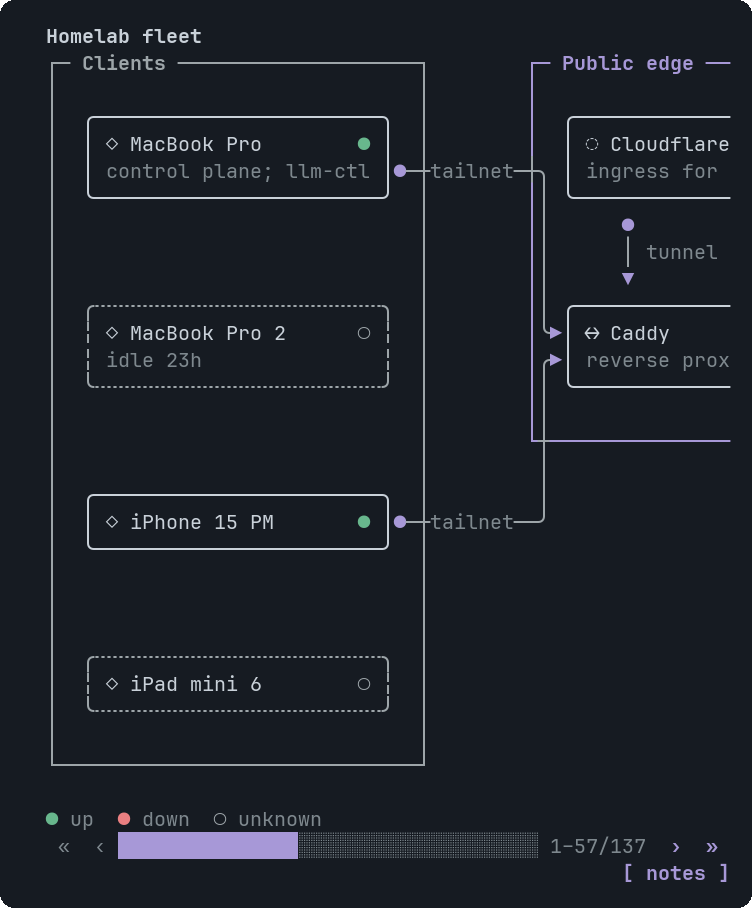
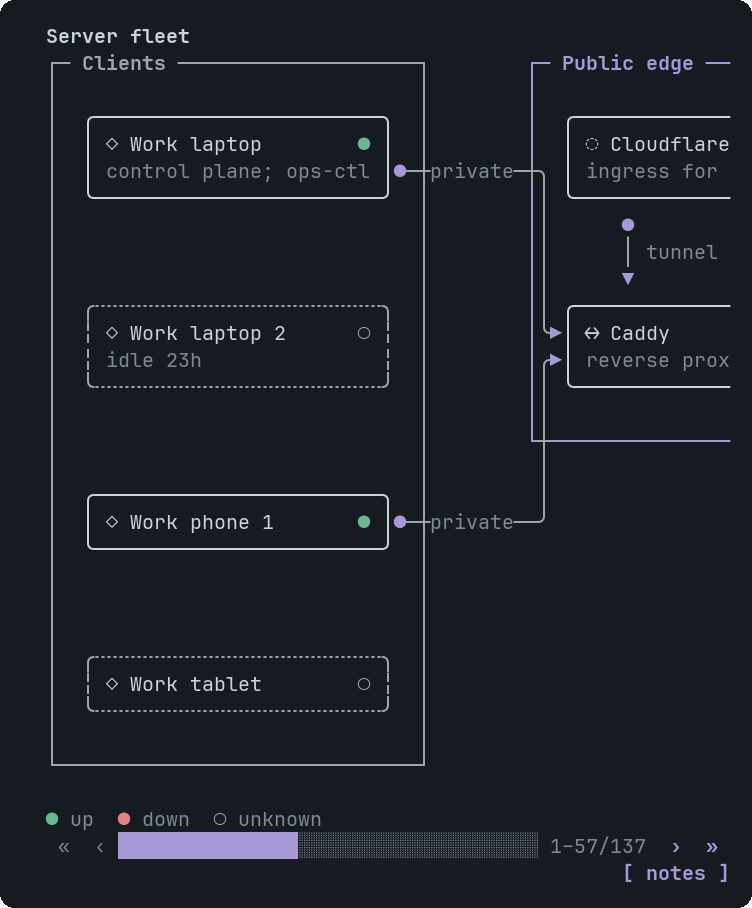
Better screenshots, synthetic example data
Redraw the screenshots and rewrite the examples, tests and compat corpus
with invented data. AGENTS.md says to always use synthetic data.

diff --git a/test/table-narrow.test.ts b/test/table-narrow.test.ts
@@ -9,12 +9,12 @@ import { newState, type Block, type Target } from "../src/blocks/types.ts";
 import { rowsToLines, textWidth } from "../src/diagram/canvas.ts";
 import { compile } from "../src/lang/library.ts";
 
-const FLEET_COLS = ["Host", "OS", "Role", "Tailnet IP", "State"];
+const FLEET_COLS = ["Host", "OS", "Role", "Address", "State"];
 const FLEET_ROWS = [
-	["dgx-spark", "Ubuntu 24.04", "Gateway host, LiteLLM", "100.76.148.76", "up"],
-	["dgx-spark2", "Ubuntu 24.04", "Cluster TP=2 node A", "100.87.121.4", "up"],
-	["divi-pc-ubuntu", "Ubuntu 24.04", "RTX 5090 workstation", "100.68.119.2", "down 8d"],
-	["davids-macbook", "macOS", "Control plane; llm-ctl", "100.123.55.118", "up"],
+	["gpu-box-a", "Ubuntu 24.04", "Gateway host, HAProxy", "198.51.100.76", "up"],
+	["gpu-box-a2", "Ubuntu 24.04", "Worker pool, node A", "198.51.100.4", "up"],
+	["work-pc-ubuntu", "Ubuntu 24.04", "Build runner, CI #12", "198.51.100.2", "down 8d"],
+	["laptop-primary", "macOS", "Control plane; ops-ctl", "198.51.100.118", "up"],
 ];
 const q = (v: string) => JSON.stringify(v);
 /** `Host` pinned: the 4th argument, with no tooltips before it */
@@ -88,10 +88,10 @@ test("the fleet table at 63 columns with a minimum of 12 scrolls: no column is n
 	cols.forEach((c, i) => assert.ok(c.w >= Math.min(natural[i], 12), `column ${i} is ${c.w} wide`));
 	assert.ok(tableBlock(FLEET_COLS, FLEET_ROWS, 63, { minCol: 12 }).block.w > 63);
 	assert.ok(s.block.rows.every((r) => r.length === s.block.w) && s.block.w === 63);
-	assert.ok(!s.text.includes("100.76.148.76"), "at the left edge the address is out of view");
+	assert.ok(!s.text.includes("198.51.100.76"), "at the left edge the address is out of view");
 	// scroll to the IP column: the address is whole
 	s.panTo(tableBlock(FLEET_COLS, FLEET_ROWS, 63, { minCol: 12 }).edges[3]); // the IP column's border: nothing is pinned, the whole table scrolls
-	assert.ok(s.text.includes("100.76.148.76") && s.text.includes("100.123.55.118"), s.text);
+	assert.ok(s.text.includes("198.51.100.76") && s.text.includes("198.51.100.118"), s.text);
 });
 
 test("with a minimum of 10 the same table at 63 columns fits and shows no bar", () => {
@@ -142,13 +142,13 @@ test("a tap on the page arrow lands on a column edge, and on the fine arrow it d
 });
 
 test("tooltip targets follow the columns when the table scrolls", () => {
-	const src = fleetSource(`, [tip]`) + `\ntip = Tooltip("cell:2.Tailnet IP", "the address", "Reachable over the tailnet only.")`;
+	const src = fleetSource(`, [tip]`) + `\ntip = Tooltip("cell:2.Address", "the address", "Reachable over the VPN only.")`;
 	const s = new Scene(src, 63, 12);
 	s.panTo(tableBlock(FLEET_COLS, FLEET_ROWS, 63, { minCol: 12 }).edges[3]);
-	const cell = s.find((t) => t.label === "cell:2.Tailnet IP");
+	const cell = s.find((t) => t.label === "cell:2.Address");
 	assert.ok(cell.rect.x >= 0 && cell.rect.x + cell.rect.w <= 63, `${JSON.stringify(cell.rect)}`);
 	s.click(cell);
-	assert.ok(s.text.includes("Reachable over the tailnet only."), s.text);
+	assert.ok(s.text.includes("Reachable over the VPN only."), s.text);
 });
 
 test("wide characters at the crop edge never leave half a cell", () => {
@@ -193,7 +193,7 @@ test("pinned column: the pinned column stays, the rest is what was at that offse
 	}
 	s.panTo(20);
 	assert.ok(s.text.split("\n")[1].startsWith("│ Host           │"), s.text);
-	assert.ok(s.text.split("\n")[6].startsWith("│ davids-macbook │"), s.text);
+	assert.ok(s.text.split("\n")[6].startsWith("│ laptop-primary │"), s.text);
 });
 
 test("pinned column: at the start the picture is the plain crop", () => {
@@ -215,7 +215,7 @@ test("pinned column: a pin wider than half the view is skipped, and the whole ta
 });
 
 test("pinned column: targets and badges follow the columns and never sit on the pinned one", () => {
-	const src = fleetSource(`, [t1, t2, t3], ["Host"]`) + `\nt1 = Tooltip("cell:1.Host", "first column")\nt2 = Tooltip("cell:1.Role", "partly hidden")\nt3 = Tooltip("cell:1.Tailnet IP", "an address")`;
+	const src = fleetSource(`, [t1, t2, t3], ["Host"]`) + `\nt1 = Tooltip("cell:1.Host", "first column")\nt2 = Tooltip("cell:1.Role", "partly hidden")\nt3 = Tooltip("cell:1.Address", "an address")`;
 	const s = new Scene(src, 63, 12);
 	const F = 18;
 	s.panTo(20);
@@ -226,15 +226,15 @@ test("pinned column: targets and badges follow the columns and never sit on the 
 	assert.ok(role.rect.x + role.rect.w > F);
 	assert.equal(targetAt(s.block, 20, 3)?.label, "cell:1.Role", "under the pointer: the visible part of Role");
 	assert.notEqual(targetAt(s.block, 10, 3)?.label, "cell:1.Role");
-	const ip = s.find((t) => t.label === "cell:1.Tailnet IP");
+	const ip = s.find((t) => t.label === "cell:1.Address");
 	const ipX = tableBlock(FLEET_COLS, FLEET_ROWS, 63, { minCol: 12 }).anchors.cols[3].x;
 	assert.equal(ip.rect.x, ipX - 20, "a column right of the edge moves by exactly the pan");
 	// the frozen column's text is intact: no badge was drawn over it
-	assert.ok(rowsOf(s.block)[3].startsWith("│ dgx-spark"), rowsOf(s.block)[3]);
+	assert.ok(rowsOf(s.block)[3].startsWith("│ gpu-box-a"), rowsOf(s.block)[3]);
 	s.panTo(0);
 	s.draw();
 	const hostText = rowsOf(s.block)[3].slice(0, F);
-	assert.ok(hostText.includes("dgx-spark"));
+	assert.ok(hostText.includes("gpu-box-a"));
 });
 
 test("pinned column: a notes item for a hidden cell is not offered, one for a visible cell moves with its column", () => {
@@ -249,7 +249,7 @@ test("pinned column: a notes item for a hidden cell is not offered, one for a vi
 	const state = at20.map((t) => t.label);
 	assert.ok(!state.some((l) => l.endsWith("OS")), `OS is entirely behind the frozen column: ${state}`);
 	assert.ok(at0.some((l) => l.endsWith("OS")), `and was there at the start: ${at0}`);
-	const ip = at20.find((t) => t.label.endsWith("Tailnet IP"))!;
+	const ip = at20.find((t) => t.label.endsWith("Address"))!;
 	assert.equal(ip.rect.x, tableBlock(FLEET_COLS, FLEET_ROWS, 63, { minCol: 12 }).anchors.cols[3].x - 20);
 });
 

diff --git a/src/lang/samples.ts b/src/lang/samples.ts
@@ -62,7 +62,7 @@ note = Callout("spark-3 was rebooted on 21 Oct.", "info")`,
 		title: "Button, Choice, Faq",
 		source: `root = Stack([b, ch, fq])
 b = Stack([b1, b2], "row")
-b1 = Button("Restart vllm", @ToAssistant("Restart the vllm service on dgx-spark-1"))
+b1 = Button("Restart vllm", @ToAssistant("Restart the vllm service on gpu-box-1"))
 b2 = Button("Drain node")
 ch = Choice("Which model should serve chat?", ["qwen3-32b", "llama-3.3-70b", "gemma-3-27b"], "I will use it for the next request")
 fq = Faq([q1, q2, q3], true)
@@ -239,8 +239,8 @@ t = Tooltip("image", "Test picture, drawn by the extension", "Pictures use the t
 		key: "wide-table",
 		title: "A wide table: it scrolls, and Host is pinned so a row stays readable",
 		source: `root = Stack([title, t])
-title = Text("Homelab fleet: five columns, Host stays put while the rest scrolls", "heading")
-t = Table(["Host", "OS", "Role", "Tailnet IP", "State"], [["dgx-spark", "Ubuntu 24.04", "Gateway host, LiteLLM", "100.76.148.76", "up"], ["dgx-spark2", "Ubuntu 24.04", "Cluster TP=2 node A", "100.87.121.4", "up"], ["divi-pc-ubuntu", "Ubuntu 24.04", "RTX 5090 workstation", "100.68.119.2", "down 8d"], ["bosgame-m5-ubuntu", "Ubuntu 26.04", "Strix Halo, dual-boot", "100.125.2.9", "down 7d"], ["davids-macbook", "macOS", "Control plane; llm-ctl", "100.123.55.118", "up"]], null, ["Host"])`,
+title = Text("Server fleet: five columns, Host stays put while the rest scrolls", "heading")
+t = Table(["Host", "OS", "Role", "Address", "State"], [["gpu-box-a", "Ubuntu 24.04", "Gateway host, HAProxy", "198.51.100.76", "up"], ["gpu-box-a2", "Ubuntu 24.04", "Worker pool, node A", "198.51.100.4", "up"], ["work-pc-ubuntu", "Ubuntu 24.04", "Build runner, CI #12", "198.51.100.2", "down 8d"], ["minipc-m55-ubuntu", "Ubuntu 22.04", "Test bench, dual-boot", "203.0.113.9", "down 7d"], ["laptop-primary", "macOS", "Control plane; ops-ctl", "198.51.100.118", "up"]], null, ["Host"])`,
 	},
 	{
 		key: "wide-table-cut",
@@ -292,27 +292,27 @@ b4 = Button("Escalate to on-call", @ToAssistant("Escalate to the on-call enginee
 		key: "wide-infra-map",
 		title: "A wide InfraMap: whole labels, scroll sideways",
 		source: `root = Stack([map])
-map = InfraMap([clients, edge, spark, strix], [l1, l2, l3, l4, l5], "Homelab fleet", "LR")
-clients = InfraZone("Clients", [mbp, mbp2, iphone, ipad])
+map = InfraMap([clients, edge, gpu, bench], [l1, l2, l3, l4, l5], "Server fleet", "LR")
+clients = InfraZone("Clients", [lap1, lap2, ph1, tab1])
 edge = InfraZone("Public edge", [cf, caddy], "info")
-spark = InfraZone("DGX Spark fleet", [s1, s2, s3], "good")
-strix = InfraZone("Strix Halo", [bos, evo])
-mbp = InfraNode("mbp", "MacBook Pro", "service", "up", "control plane; llm-ctl")
-mbp2 = InfraNode("mbp2", "MacBook Pro 2", "service", "unknown", "idle 23h")
-iphone = InfraNode("iphone", "iPhone 15 PM", "service", "up")
-ipad = InfraNode("ipad", "iPad mini 6", "service", "unknown")
+gpu = InfraZone("GPU fleet", [s1, s2, s3], "good")
+bench = InfraZone("Test bench", [mini2, mini3])
+lap1 = InfraNode("lap1", "Work laptop", "service", "up", "control plane; ops-ctl")
+lap2 = InfraNode("lap2", "Work laptop 2", "service", "unknown", "idle 23h")
+ph1 = InfraNode("ph1", "Work phone 1", "service", "up")
+tab1 = InfraNode("tab1", "Work tablet", "service", "unknown")
 cf = InfraNode("cf", "Cloudflare tunnel", "cloud", "up", "ingress for gateway")
 caddy = InfraNode("caddy", "Caddy", "gateway", "up", "reverse proxy; fronts services")
-s1 = InfraNode("s1", "dgx-spark", "service", "up", "LiteLLM, Postgres")
-s2 = InfraNode("s2", "dgx-spark2", "service", "up", "TP=2 half A")
-s3 = InfraNode("s3", "dgx-spark3", "service", "up", "TP=2 half B")
-bos = InfraNode("bos", "bosgame-m5", "service", "down", "Strix Halo")
-evo = InfraNode("evo", "evo-x3", "service", "down", "Strix Halo")
-l1 = InfraLink("mbp", "caddy", "tailnet")
-l2 = InfraLink("iphone", "caddy", "tailnet")
+s1 = InfraNode("s1", "gpu-box-a", "service", "up", "HAProxy, Postgres")
+s2 = InfraNode("s2", "gpu-box-a2", "service", "up", "pool 1 of 2")
+s3 = InfraNode("s3", "gpu-box-a3", "service", "up", "pool 2 of 2")
+mini2 = InfraNode("mini2", "minipc-m55", "service", "down", "test bench")
+mini3 = InfraNode("mini3", "mini-3", "service", "down", "test bench")
+l1 = InfraLink("lap1", "caddy", "private")
+l2 = InfraLink("ph1", "caddy", "private")
 l3 = InfraLink("cf", "caddy", "tunnel")
 l4 = InfraLink("caddy", "s1", "/v1")
-l5 = InfraLink("s2", "s3", "200G TP", "dashed")`,
+l5 = InfraLink("s2", "s3", "10G LAN", "dashed")`,
 	},
 	{
 		key: "wide-dag",

diff --git a/test/narrow-audit.test.ts b/test/narrow-audit.test.ts
@@ -34,9 +34,9 @@ sequence_many: `root = Stack([s])\ns = SequenceDiagram([a,b,c,d,e],[m1,m2,m3])\n
 erd_wide: `root = Stack([e])\ne = Erd([u,o,p],[r1,r2],"Schema")\nu = Entity("users",["id uuid PK","email text UNIQUE","display_name text","created_at timestamptz"])\no = Entity("orders",["id uuid PK","user_id uuid FK","total numeric","status text"])\np = Entity("order_line_items_with_long_name",["id uuid PK","order_id uuid FK","sku text","quantity int"])\nr1 = Relation("users","orders","1:N","places")\nr2 = Relation("orders","order_line_items_with_long_name","1:N","contains")`,
[1 lines of base64/hex data omitted]
 
-table_wide: `root = Stack([t])\nt = Table(["Host","OS","Role","Tailnet IP","State"],[["dgx-spark","Ubuntu 24.04","Gateway host, LiteLLM","100.76.148.76","up"],["divi-pc-ubuntu","Ubuntu 24.04","RTX 5090 workstation","100.68.119.2","down 8d"]])`,
+table_wide: `root = Stack([t])\nt = Table(["Host","OS","Role","Address","State"],[["gpu-box-a","Ubuntu 24.04","Gateway host, HAProxy","198.51.100.76","up"],["work-pc-ubuntu","Ubuntu 24.04","Build runner, CI #12","198.51.100.2","down 8d"]])`,
 dag_long: `root = Stack([d])\nd = Dag([a,b,c,e,f,g],[["a","b"],["b","c"],["c","e"],["e","f"],["f","g"]],"LR","Pipeline")\na = DagNode("a","Compile the frontend bundle","done")\nb = DagNode("b","Run the unit test suite","done")\nc = DagNode("c","Build the docker image","running")\ne = DagNode("e","Push to the registry","pending")\nf = DagNode("f","Deploy to staging now","pending")\ng = DagNode("g","Run smoke tests live","pending")`,
-infra_long: `root = Stack([m])\nm = InfraMap([z1,z2,z3],[l1,l2,l3],"Fleet","LR")\nz1 = InfraZone("Clients",[n1,n2])\nz2 = InfraZone("Public edge",[n3,n4])\nz3 = InfraZone("DGX Spark fleet",[n5])\nn1 = InfraNode("n1","MacBook Pro control","service","up","control plane; llm-ctl")\nn2 = InfraNode("n2","iPad mini sixth gen","service","unknown")\nn3 = InfraNode("n3","Cloudflare tunnel","cloud","up","ingress for the gateway")\nn4 = InfraNode("n4","Caddy reverse proxy","gateway","up","fronts all services")\nn5 = InfraNode("n5","dgx-spark primary","service","up","LiteLLM and Postgres")\nl1 = InfraLink("n1","n4","tailnet")\nl2 = InfraLink("n3","n4","tunnel")\nl3 = InfraLink("n4","n5","/v1")`,
+infra_long: `root = Stack([m])\nm = InfraMap([z1,z2,z3],[l1,l2,l3],"Fleet","LR")\nz1 = InfraZone("Clients",[n1,n2])\nz2 = InfraZone("Public edge",[n3,n4])\nz3 = InfraZone("GPU fleet",[n5])\nn1 = InfraNode("n1","Work laptop control","service","up","control plane; ops-ctl")\nn2 = InfraNode("n2","Work tablet sixth gen","service","unknown")\nn3 = InfraNode("n3","Cloudflare tunnel","cloud","up","ingress for the gateway")\nn4 = InfraNode("n4","Caddy reverse proxy","gateway","up","fronts all services")\nn5 = InfraNode("n5","gpu-box-a primary","service","up","HAProxy and Postgres")\nl1 = InfraLink("n1","n4","private")\nl2 = InfraLink("n3","n4","tunnel")\nl3 = InfraLink("n4","n5","/v1")`,
 };
 
 /** Components that must not lose text to an ellipsis at a phone width (30 columns and up). */

diff --git a/scripts/shots.ts b/scripts/shots.ts
@@ -41,10 +41,10 @@ export const SHOTS: Shot[] = [
 	{ file: "table-panel", sample: "table", width: 80, steps: [{ click: "row:3" }] },
 	// a phone: 60 columns. The table is wider than that, so it has a pan bar, and Host and State are pinned
 	{ file: "pan-table", width: 60, source: `root = Stack([t])
-t = Table(["Host", "OS", "Role", "Tailnet IP", "State"], [["dgx-spark", "Ubuntu 24.04", "Gateway host, LiteLLM", "100.76.148.76", "up"], ["dgx-spark2", "Ubuntu 24.04", "Cluster TP=2 node A", "100.87.121.4", "up"], ["divi-pc-ubuntu", "Ubuntu 24.04", "RTX 5090 workstation", "100.68.119.2", "down 8d"], ["davids-macbook", "macOS", "Control plane; llm-ctl", "100.123.55.118", "up"]], [tip], ["Host", "State"])
+t = Table(["Host", "OS", "Role", "Address", "State"], [["gpu-box-a", "Ubuntu 24.04", "Gateway host, HAProxy", "198.51.100.76", "up"], ["gpu-box-a2", "Ubuntu 24.04", "Worker pool, node A", "198.51.100.4", "up"], ["work-pc-ubuntu", "Ubuntu 24.04", "Build runner, CI #12", "198.51.100.2", "down 8d"], ["laptop-primary", "macOS", "Control plane; ops-ctl", "198.51.100.118", "up"]], [tip], ["Host", "State"])
 tip = Tooltip("cell:3.State", "down for 8 days", "Last seen 2026-11-06.")` },
 	{ file: "pan-table-scrolled", width: 60, source: `root = Stack([t])
-t = Table(["Host", "OS", "Role", "Tailnet IP", "State"], [["dgx-spark", "Ubuntu 24.04", "Gateway host, LiteLLM", "100.76.148.76", "up"], ["dgx-spark2", "Ubuntu 24.04", "Cluster TP=2 node A", "100.87.121.4", "up"], ["divi-pc-ubuntu", "Ubuntu 24.04", "RTX 5090 workstation", "100.68.119.2", "down 8d"], ["davids-macbook", "macOS", "Control plane; llm-ctl", "100.123.55.118", "up"]], [tip], ["Host", "State"])
+t = Table(["Host", "OS", "Role", "Address", "State"], [["gpu-box-a", "Ubuntu 24.04", "Gateway host, HAProxy", "198.51.100.76", "up"], ["gpu-box-a2", "Ubuntu 24.04", "Worker pool, node A", "198.51.100.4", "up"], ["work-pc-ubuntu", "Ubuntu 24.04", "Build runner, CI #12", "198.51.100.2", "down 8d"], ["laptop-primary", "macOS", "Control plane; ops-ctl", "198.51.100.118", "up"]], [tip], ["Host", "State"])
 tip = Tooltip("cell:3.State", "down for 8 days", "Last seen 2026-11-06.")`, steps: [{ click: "page right" }] },
 	// the small-screen set (`/openui-gallery wide`), drawn at the width of a phone
 	{ file: "table-cut", sample: "wide-table-cut", width: 60 },
@@ -118,9 +118,9 @@ d = Callout("Health check failed twice in a row.", "error")`,
 		width: 80,
 		source: `root = Stack([row, link])
 row = Stack([a, b, c], "row")
-a = Button("Restart vllm", @ToAssistant("Restart the vllm service on dgx-spark-1"))
+a = Button("Restart vllm", @ToAssistant("Restart the vllm service on gpu-box-1"))
 b = Button("Show logs")
-c = Button("Drain node", Action([@ToAssistant("Drain dgx-spark-3 before the reboot")]))
+c = Button("Drain node", Action([@ToAssistant("Drain gpu-box-3 before the reboot")]))
 link = Button("Open the runbook", @OpenUrl("https://example.com/runbook"))`,
 	},
 	{

diff --git a/test/pan-not-cut.test.ts b/test/pan-not-cut.test.ts
@@ -23,13 +23,13 @@ test("Dag: a graph too wide for the pane keeps whole labels", () => {
 test("InfraMap: a map too wide for the pane keeps whole labels and details", () => {
 	const z = (name: string, nodes: any[]) => ({ name, nodes });
 	const zones = [
-		z("Clients", [{ id: "a", label: "MacBook Pro control", detail: "control plane; llm-ctl host" }]),
+		z("Clients", [{ id: "a", label: "Work laptop control", detail: "control plane; ops-ctl host" }]),
 		z("Public edge", [{ id: "b", label: "Cloudflare tunnel", detail: "ingress for the gateway" }, { id: "c", label: "Caddy reverse proxy", detail: "fronts all the services" }]),
-		z("DGX Spark fleet", [{ id: "d", label: "dgx-spark primary", detail: "LiteLLM and Postgres" }]),
+		z("GPU fleet", [{ id: "d", label: "gpu-box-a primary", detail: "HAProxy and Postgres" }]),
 	];
-	const res = infra(zones, [{ from: "a", to: "c", label: "tailnet" }, { from: "b", to: "c", label: "tunnel" }, { from: "c", to: "d", label: "/v1" }], { direction: "LR", maxWidth: 40 });
+	const res = infra(zones, [{ from: "a", to: "c", label: "private" }, { from: "b", to: "c", label: "tunnel" }, { from: "c", to: "d", label: "/v1" }], { direction: "LR", maxWidth: 40 });
 	assert.ok(res.overflow);
-	for (const s of ["MacBook Pro control", "Cloudflare tunnel", "Caddy reverse proxy", "dgx-spark primary", "ingress for the gateway", "fronts all the services"]) assert.ok(text(res.rows).includes(s), `${s}\n${text(res.rows)}`);
+	for (const s of ["Work laptop control", "Cloudflare tunnel", "Caddy reverse proxy", "gpu-box-a primary", "ingress for the gateway", "fronts all the services"]) assert.ok(text(res.rows).includes(s), `${s}\n${text(res.rows)}`);
 });
 
 test("Erd: an entity too wide for the pane keeps whole field lines", () => {

diff --git a/test/table-pin.test.ts b/test/table-pin.test.ts
@@ -10,12 +10,12 @@ import { rowsToLines, textWidth } from "../src/diagram/canvas.ts";
 import { compile } from "../src/lang/library.ts";
 import { rng } from "./helpers.ts";
 
-const COLS = ["Host", "OS", "Role", "Tailnet IP", "State"];
+const COLS = ["Host", "OS", "Role", "Address", "State"];
 const ROWS = [
-	["dgx-spark", "Ubuntu 24.04", "Gateway host, LiteLLM", "100.76.148.76", "up"],
-	["dgx-spark2", "Ubuntu 24.04", "Cluster TP=2 node A", "100.87.121.4", "up"],
-	["divi-pc-ubuntu", "Ubuntu 24.04", "RTX 5090 workstation", "100.68.119.2", "down 8d"],
-	["davids-macbook", "macOS", "Control plane; llm-ctl", "100.123.55.118", "up"],
+	["gpu-box-a", "Ubuntu 24.04", "Gateway host, HAProxy", "198.51.100.76", "up"],
+	["gpu-box-a2", "Ubuntu 24.04", "Worker pool, node A", "198.51.100.4", "up"],
+	["work-pc-ubuntu", "Ubuntu 24.04", "Build runner, CI #12", "198.51.100.2", "down 8d"],
+	["laptop-primary", "macOS", "Control plane; ops-ctl", "198.51.100.118", "up"],
 ];
 const q = JSON.stringify;
 const tb = (width: number, pin?: number[], minCol = 12, cols = COLS, rows = ROWS) => tableBlock(cols, rows, width, { minCol, ...(pin ? { pin } : {}) });

diff --git a/test/pi-component.test.ts b/test/pi-component.test.ts
@@ -88,11 +88,11 @@ test("buttons and choices: a button sends at once; a choice only stages until Se
 	live.render(100);
 	click(live, find(live, (t: any) => t.label === "Restart vllm"));
 	click(live, find(live, (t: any) => t.kind === "choice" && t.label === "qwen3-32b"));
-	assert.deepEqual(sent, ["Restart the vllm service on dgx-spark-1"], "choosing sends nothing");
+	assert.deepEqual(sent, ["Restart the vllm service on gpu-box-1"], "choosing sends nothing");
 	assert.ok(strip(live.render(100).join("\n")).includes("● qwen3-32b"));
 	assert.ok(strip(live.render(100).join("\n")).includes("1 of 1 answered")); // a frame is drawn, as pi does after every event
 	click(live, find(live, (t: any) => t.kind === "send"));
-	assert.deepEqual(sent, ["Restart the vllm service on dgx-spark-1", "Which model should serve chat? — qwen3-32b"]);
+	assert.deepEqual(sent, ["Restart the vllm service on gpu-box-1", "Which model should serve chat? — qwen3-32b"]);
 	assert.deepEqual(echoed, []);
 	const after = strip(live.render(100).join("\n"));
 	assert.ok(after.includes("Sent to the agent.") && after.includes("● qwen3-32b"));

diff --git a/src/lang/docs.ts b/src/lang/docs.ts
@@ -186,7 +186,7 @@ tbl = Table(["Node", "State"], [["spark-1", "serving"], ["spark-2", "serving"]])
 			"Button.action": '`@ToAssistant("text")` sends that text (500 characters at most). `Action([...])` holds several steps. `@OpenUrl("https://...")` copies the link to the clipboard, because a terminal cannot open a browser from here.',
 		},
 		example: `root = Stack([b])
-b = Button("Restart vllm", @ToAssistant("Restart the vllm service on dgx-spark-1"))`,
+b = Button("Restart vllm", @ToAssistant("Restart the vllm service on gpu-box-1"))`,
 		interaction: [
 			"In a widget the agent drew, a click (or Enter on the focused button) sends the text as a real user turn. The agent acts, then draws a new widget.",
 			"In `/openui-gallery` the click is only echoed locally, so trying it costs nothing.",

diff --git a/test/interact.test.ts b/test/interact.test.ts
@@ -323,7 +323,7 @@ test("buttons: @ToAssistant text, label fallback, @OpenUrl copies the link", () 
 	const h = new Harness(sample("interactive"));
 	h.click(h.find((t) => t.kind === "button" && t.label === "Restart vllm"));
 	h.click(h.find((t) => t.kind === "button" && t.label === "Drain node"));
-	assert.deepEqual(h.sent, ["Restart the vllm service on dgx-spark-1", "Drain node"]);
+	assert.deepEqual(h.sent, ["Restart the vllm service on gpu-box-1", "Drain node"]);
 	const u = new Harness(`root = Stack([b])\nb = Button("Docs", @OpenUrl("https://example.com/docs"))`);
 	u.click(u.find((t) => t.kind === "button"));
 	assert.deepEqual(u.sent, []);

diff --git a/test/table-pin-lang.test.ts b/test/table-pin-lang.test.ts
@@ -49,7 +49,7 @@ test("pin must be an array of strings, and says so", () => {
 });
 
 test("header spacing is not a difference: pin matches the header the way the table draws it", () => {
-	const src = `root = Stack([t])\nt = Table(["  Tailnet   IP "], [["1"]], null, ["Tailnet IP"])`;
+	const src = `root = Stack([t])\nt = Table(["  Remote   IP "], [["1"]], null, ["Remote IP"])`;
 	assert.deepEqual(compile(src).errors, []);
 });
 

diff --git a/test/e2e/narrow.py b/test/e2e/narrow.py
@@ -46,7 +46,7 @@ if b is None:
     raise SystemExit(1)
 widget_lines = [l for l in t.lines() if l.startswith("▎") or "│" in l or "‹" in l]
 check("the widget's lines leave the last column empty (pi paints its scrollbar there)", widget_lines and all(len(l.rstrip()) <= 59 for l in widget_lines), t.text())
-check("the table is readable at the start: first columns whole, not cut to ten characters", "Gateway host, LiteL" in t.text() or "dgx-spark2" in t.text(), t.text())
+check("the table is readable at the start: first columns whole, not cut to ten characters", "Gateway host, HAPr" in t.text() or "gpu-box-a2" in t.text(), t.text())
 total = b[2]
 x, y = cell(t, "›"); t.click(x, y)
 b2 = bar(t)
@@ -54,7 +54,7 @@ check("a tap on › scrolls a few cells (8 by default), not a page", b2 and b2[0
 x, y = cell(t, "»"); t.click(x, y)
 b3 = bar(t)
 check("a tap on » scrolls a page: far more than a fine step", b3 and b3[0] - b2[0] > 20, f"{b2} -> {b3}")
-check("nothing is pinned unless the model asks: the Host column scrolls away with the rest", any("100.76" in l for l in t.lines()) and not any("│ dgx-spark " in l and "100.76" in l for l in t.lines()), t.text())
+check("nothing is pinned unless the model asks: the Host column scrolls away with the rest", any("198.51" in l for l in t.lines()) and not any("│ gpu-box-a " in l and "198.51" in l for l in t.lines()), t.text())
 x, y = cell(t, "«"); t.click(x, y)
 for _ in range(12):
     if bar(t)[0] == 1: break
@@ -120,8 +120,8 @@ x, y = cell(t, "»"); t.click(x, y)
 x, y = cell(t, "»"); t.click(x, y)
 lines = t.lines()
 head = next((l for l in lines if "│ Host" in l and "State" in l), "")
-check("Host and State are pinned: they stay at the left after two pages of scrolling", bool(head) and head.index("Host") < head.index("State") < 30 and any("│ dgx-spark " in l and "│ up " in l for l in lines), t.text())
-check("and what scrolled in is on the right of them", "Tailnet IP" in t.text() or "Role" in t.text(), t.text())
+check("Host and State are pinned: they stay at the left after two pages of scrolling", bool(head) and head.index("Host") < head.index("State") < 30 and any("│ gpu-box-a " in l and "│ up " in l for l in lines), t.text())
+check("and what scrolled in is on the right of them", "Address" in t.text() or "Role" in t.text(), t.text())
 check("the pinned part is under half of the pane (60 columns)", head.index("│", head.index("State")) <= 30, head)
 t.close()
 

diff --git a/test/e2e/interactive.py b/test/e2e/interactive.py
@@ -51,16 +51,16 @@ check("and closes it again", "uncordon" not in t.text())
 x, y = at(t, "[ Drain node ]"); t.click(x + 3, y)
 check("a button without an action sends its label", "widget click → assistant] Drain node" in t.text(), t.text())
 t.send("\x1b[Z", 0.7); t.send("\r", 0.9)
-check("Shift+Tab then Enter activates the previous button", "Restart the vllm service on dgx-spark-1" in t.text(), t.text())
+check("Shift+Tab then Enter activates the previous button", "Restart the vllm service on gpu-box-1" in t.text(), t.text())
 t.send("\x1b[B", 0.7)
 check("Down reaches the choices", "Enter to select" in t.text(), t.text())
 t.send("\x1b[B", 0.7); t.send("\x1b[B", 0.7); t.send("\r", 0.9)
 check("Down, Down, Enter moves the pick to the third option", "● gemma-3-27b" in t.text() and "○ llama-3.3-70b" in t.text(), t.text())
 x, y = at(t, "[ Send answers ]"); t.click(x + 3, y)
 check("Send answers echoes the one line and locks the question", "Which model should serve chat? — gemma-3-27b" in t.text() and "Sent to the agent." in t.text(), t.text())
-pressed = t.text().count("Restart the vllm service on dgx-spark-1")
+pressed = t.text().count("Restart the vllm service on gpu-box-1")
 t.send("\r", 0.8)
-check("after Send, Enter presses no button of the widget (the keyboard is pi's again)", t.text().count("Restart the vllm service on dgx-spark-1") == pressed, t.text())
+check("after Send, Enter presses no button of the widget (the keyboard is pi's again)", t.text().count("Restart the vllm service on gpu-box-1") == pressed, t.text())
 t.send("x", 0.5)
 check("typing is not swallowed, and disarms", "x" in "".join(t.lines()[-6:]), "\n".join(t.lines()[-8:]))
 t.close()
